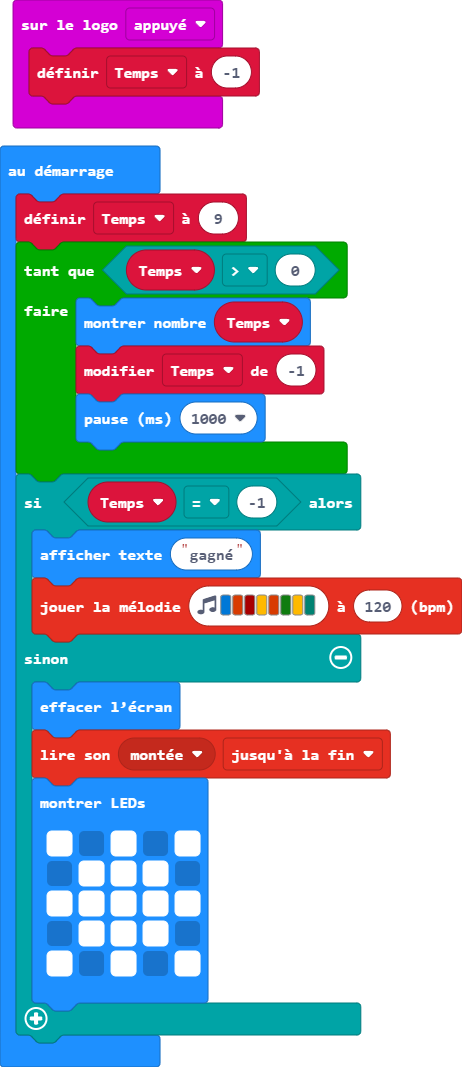
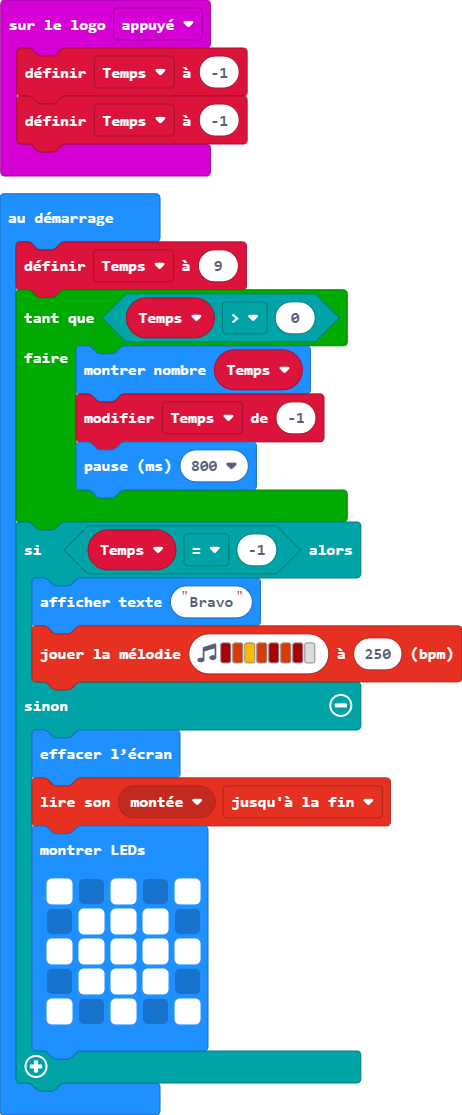
Misc fixes, better win music

diff --git a/main.ts b/main.ts
@@ -1,16 +1,17 @@
 input.onLogoEvent(TouchButtonEvent.Pressed, function () {
     Temps = -1
+    Temps = -1
 })
 let Temps = 0
 Temps = 9
 while (Temps > 0) {
     basic.showNumber(Temps)
     Temps += -1
-    basic.pause(1000)
+    basic.pause(800)
 }
 if (Temps == -1) {
-    basic.showString("gagné")
-    music.playMelody("E B C5 A B G A F ", 120)
+    basic.showString("Bravo")
+    music.playMelody("C5 B A B C5 B C5 - ", 250)
 } else {
     basic.clearScreen()
     music.playSoundEffect(music.builtinSoundEffect(soundExpression.soaring), SoundExpressionPlayMode.UntilDone)
